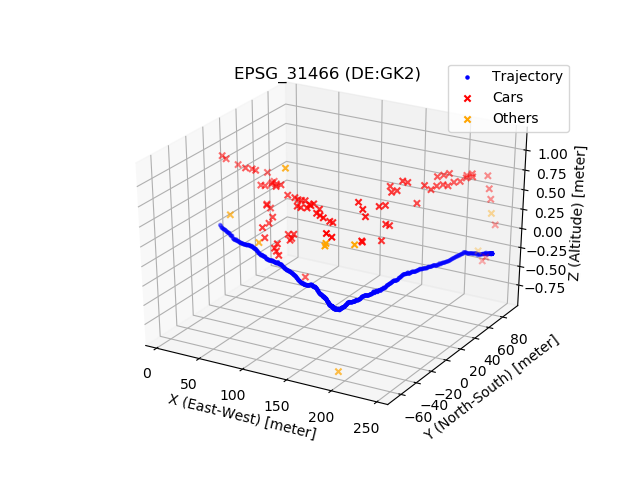
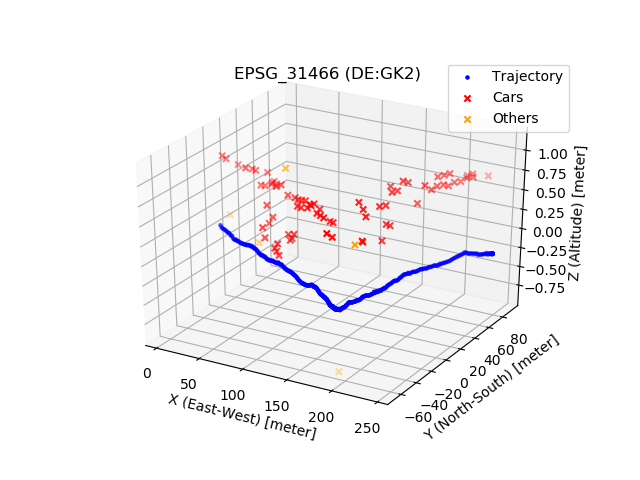
some updated

diff --git a/kitti/3dm/3dm_poses.py b/kitti/3dm/3dm_poses.py
@@ -48,6 +48,7 @@ def main():
     parser.add_argument('--pose_file', default='frame_trajectory.txt', help='pose file')
     parser.add_argument('--transform_file', default='umeyama.txt', help='transfom matrix file')
     parser.add_argument('--output_dir', default='outputs', help='label file')
+    parser.add_argument('--exclude_objects', type=int, nargs='+', default=None, help='moving objects to exclude')
     args = parser.parse_args()
     # args = parser.parse_args(args=[])
     logger.info(json.dumps(args.__dict__, indent=2))
@@ -154,6 +155,9 @@ def main():
         location = list(map(lambda x: float(x), cols[13:16]))
 
         if object_type == "DontCare":
+            continue
+
+        if track_id in args.exclude_objects:
             continue
 
         left, top, right, bottom = bbox
@@ -306,11 +310,11 @@ def main():
     ax.scatter(traj[:, 0], traj[:, 1], -traj[:, 2], c='blue', marker='.')
     ax.scatter(cars[:, 0], cars[:, 1], -cars[:, 2], c='red', marker='x')
     ax.scatter(not_cars[:, 0], not_cars[:, 1], -not_cars[:, 2], c='orange', marker='x')
-    ax.set_xlabel('X (East-West)')
-    ax.set_ylabel('Y (North-South)')
-    ax.set_zlabel('Z (Altitude)')
-    plt.title("EPSG_%s" % 31466)
-    plt.legend(['Trajectory', 'Cars', 'Not Cars'], loc="best")
+    ax.set_xlabel('X (East-West) [meter]')
+    ax.set_ylabel('Y (North-South) [meter]')
+    ax.set_zlabel('Z (Altitude) [meter]')
+    plt.title("EPSG_%s (DE:GK2)" % 31466)
+    plt.legend(['Trajectory', 'Cars', 'Others'], loc="best")
     plt.savefig("result-3dm_poses-3d.png")
     plt.show()
     plt.close()
@@ -320,10 +324,10 @@ def main():
     ax.scatter(traj[:, 0], traj[:, 1], c='blue', marker='.')
     ax.scatter(cars[:, 0], cars[:, 1], c='red', marker='x')
     ax.scatter(not_cars[:, 0], not_cars[:, 1], c='orange', marker='x')
-    ax.set_xlabel('X (East-West)')
-    ax.set_ylabel('Y (North-South)')
-    plt.title("EPSG_%s" % 31466)
-    plt.legend(['Trajectory', 'Cars', 'Not Cars'], loc="best")
+    ax.set_xlabel('X (East-West) [meter]')
+    ax.set_ylabel('Y (North-South) [meter]')
+    plt.title("EPSG_%s (DE:GK2)" % 31466)
+    plt.legend(['Trajectory', 'Cars', 'Others'], loc="best")
     plt.savefig("result-3dm_poses-xy.png")
     plt.show()
     plt.close()
@@ -333,10 +337,10 @@ def main():
     ax.scatter(traj[:, 0], -traj[:, 2], c='blue', marker='.')
     ax.scatter(cars[:, 0], -cars[:, 2], c='red', marker='x')
     ax.scatter(not_cars[:, 0], -not_cars[:, 2], c='orange', marker='x')
-    ax.set_xlabel('X (East-West)')
-    ax.set_ylabel('Z (Altitude)')
-    plt.title("EPSG_%s" % 31466)
-    plt.legend(['Trajectory', 'Cars', 'Not Cars'], loc="best")
+    ax.set_xlabel('X (East-West) [meter]')
+    ax.set_ylabel('Z (Altitude) [meter]')
+    plt.title("EPSG_%s (DE:GK2)" % 31466)
+    plt.legend(['Trajectory', 'Cars', 'Others'], loc="best")
     plt.savefig("result-3dm_poses-xz.png")
     plt.show()
     plt.close()

diff --git a/kitti/3dm/plot_umeyama3d.py b/kitti/3dm/plot_umeyama3d.py
@@ -80,7 +80,7 @@ def align_umeyama(model, data, known_scale=False, yaw_only=False):
     return s, R, t
 
 
-def plot_trajectory(gt, est, epsg=3857):
+def plot_trajectory(gt, est, epsg=3857, camera_height=1.65):
 
     fig = plt.figure()
     ax = fig.add_subplot(111, projection='3d')
@@ -143,7 +143,7 @@ def plot_trajectory(gt, est, epsg=3857):
 
     for i, gt_p in enumerate(gt):
         # (lan, lon, alt) -> (lon, lan, alt)
-        x, y, z = pyproj.transform(trans_from, trans_to, gt_p[1], gt_p[0], gt_p[2])
+        x, y, z = pyproj.transform(trans_from, trans_to, gt_p[1], gt_p[0], gt_p[2] + camera_height)
         if i == 0:
             init_x, init_y, init_z = (x, y, z)
         gt_trans.append((x - init_x, y - init_y, z - init_z))
@@ -221,6 +221,7 @@ def main():
     parser = argparse.ArgumentParser(description='umeyama alignment')
     parser.add_argument('--gt',  default='gt.txt',  help='ground truth potions (.txt)')
     parser.add_argument('--est', default='est.txt', help='estimated potions (.txt)')
+    parser.add_argument('--camera_height', default=1.65, help='camera height')
     args = parser.parse_args()
     # args = parser.parse_args(args=[])
     logger.info(json.dumps(args.__dict__, indent=2))
@@ -243,8 +244,8 @@ def main():
         cols = line.strip().split(' ')
         est.append([float(x) for x in cols[:3]])    # (x, y, z)
 
-    # U, scale = plot_trajectory(gt, est, epsg=3857)    # EPSG  3857: 球面メルカトル図法
-    U, scale = plot_trajectory(gt, est, epsg=31466)     # EPSG 31466: DE:ガウスクルーガー, GK 2
+    # U, scale = plot_trajectory(gt, est, epsg=3857, camera_height=args.camera_height)  # EPSG  3857: 球面メルカトル図法
+    U, scale = plot_trajectory(gt, est, epsg=31466, camera_height=args.camera_height)   # EPSG 31466: DE:ガウスクルーガー, GK 2
 
     print(
         "R[0,0] R[0,1] R[0,2] t[0] "

diff --git a/kitti/3dm/README.md b/kitti/3dm/README.md
@@ -10,7 +10,7 @@ This example code is a OpenCV example code for Visual SLAM.
 - [ORB_SLAM2](https://github.com/raulmur/ORB_SLAM2)
 
 In addition, please add the project folder to PYTHONPATH and `conca install` the following packages:
-- `cv2`
+- `cv2`z
 - `scipy`
 - `matplotlib`
 - `pyproj`
@@ -127,7 +127,14 @@ datasets/data_tracking/sequences/01
 cat datasets/data_tracking/data_tracking_oxts/training/oxts/0001.txt | cut -d " " -f 1-3 > outputs/gt-trajectory-0001.txt
 cat outputs/frameTrajectory.txt | cut -d " " -f 2-4 > outputs/est-trajectory-0001.txt
 python plot_umeyama3d.py --gt outputs/gt-trajectory-0001.txt --est outputs/est-trajectory-0001.txt > outputs/umeyama.txt
-
+2020-03-08 18:12:13,027 - main - INFO - {
+  "gt": "outputs/gt-trajectory-0001.txt",
+  "est": "outputs/est-trajectory-0001.txt",
+  "camera_height": 1.65
+}
+```
+```
+cat outputs/umeyama.txt
 R[0,0] R[0,1] R[0,2] t[0] R[1,0] R[1,1] R[1,2] t[1] R[2,0] R[2,1] R[2,2] t[2] s
 -0.261392 0.027647 0.964837 4.624747 -0.962645 0.065678 -0.262680 -1.049018 -0.070631 -0.997458 0.009446 -0.087966 21.330576
 ```
@@ -148,7 +155,24 @@ python 3dm_poses.py \
 --calib_file datasets/data_tracking/data_tracking_calib/training/calib/0001.txt \
 --pose_file outputs/frameTrajectory.txt \
 --transform_file outputs/umeyama.txt \
+--exclude_objects 8 12 44 45 81 82 83 84 86 87 88 96 \
 | tee outputs/result-3dm_poses.txt
+
+2020-03-08 18:49:34,255 - main - INFO - {
+  "label_file": "datasets/data_tracking/data_tracking_label_2/training/label_02/0001.txt",
+  "calib_file": "datasets/data_tracking/data_tracking_calib/training/calib/0001.txt",
+  "pose_file": "outputs/frameTrajectory.txt",
+  "transform_file": "outputs/umeyama.txt",
+  "output_dir": "outputs",
+  "exclude_objects": [ 8, 12, 44, 45, 81, 82, 83, 84, 86, 87, 88, 96 ]
+}
+2020-03-08 18:49:34,256 - main - INFO - --- K ----------
+2020-03-08 18:49:34,256 - main - INFO - [[721.5377   0.     609.5593]
+ [  0.     721.5377 172.854 ]
+ [  0.       0.       1.    ]]
+2020-03-08 18:49:34,256 - main - INFO - --- dist_coef ----------
+2020-03-08 18:49:34,256 - main - INFO - [[0. 0. 0. 0. 0.]]
+:
 ```
 
 - Experiment’s results
